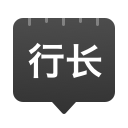
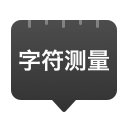
Chinese updates, minor tweaks

diff --git a/onboarding.css b/onboarding.css
@@ -50,7 +50,7 @@ dialog {
   max-width: 500px;
   transform: translateX(-50%) translateY(-52%);
   animation-name: dialog-one-in;
-  animation-duration: .6s;
+  animation-duration: .5s;
   animation-timing-function: ease-in;
 }
 
@@ -155,7 +155,7 @@ dialog a.close {
   width: 100%;
   min-height: 100%;
   animation-name: section-in;
-  animation-duration: 1s;
+  animation-duration: .8s;
   animation-timing-function: ease-in;
 }
 
@@ -188,7 +188,7 @@ figure {
   background-repeat: no-repeat;
   background-blend-mode: multiply;
   animation-name: figure-in;
-  animation-duration: 5s;
+  animation-duration: 4s;
   animation-timing-function: ease-out;
 }
 
@@ -198,7 +198,7 @@ figure {
 @keyframes dialog-one-in {
   0% {
     opacity: 0;
-    transform: translate(-50%, -58%);
+    transform: translate(-50%, -56%);
   }
   100% {
     opacity: 1;

diff --git a/onboarding-zh.css b/onboarding-zh.css
@@ -7,6 +7,6 @@ body {
 }
 
 article {
-  font-family: Georgia, "Times New Roman", STFangSong, "华文仿宋", STSong, "华文宋体", FangSong, "仿宋", serif;
-  line-height: 1.8em;
+  font-family: Georgia, "Times New Roman", STKaiti, "华文楷体", KaiTi, "楷体", STSong, "华文宋体", FangSong, "仿宋", serif;
+  line-height: 1.5em;
 }
